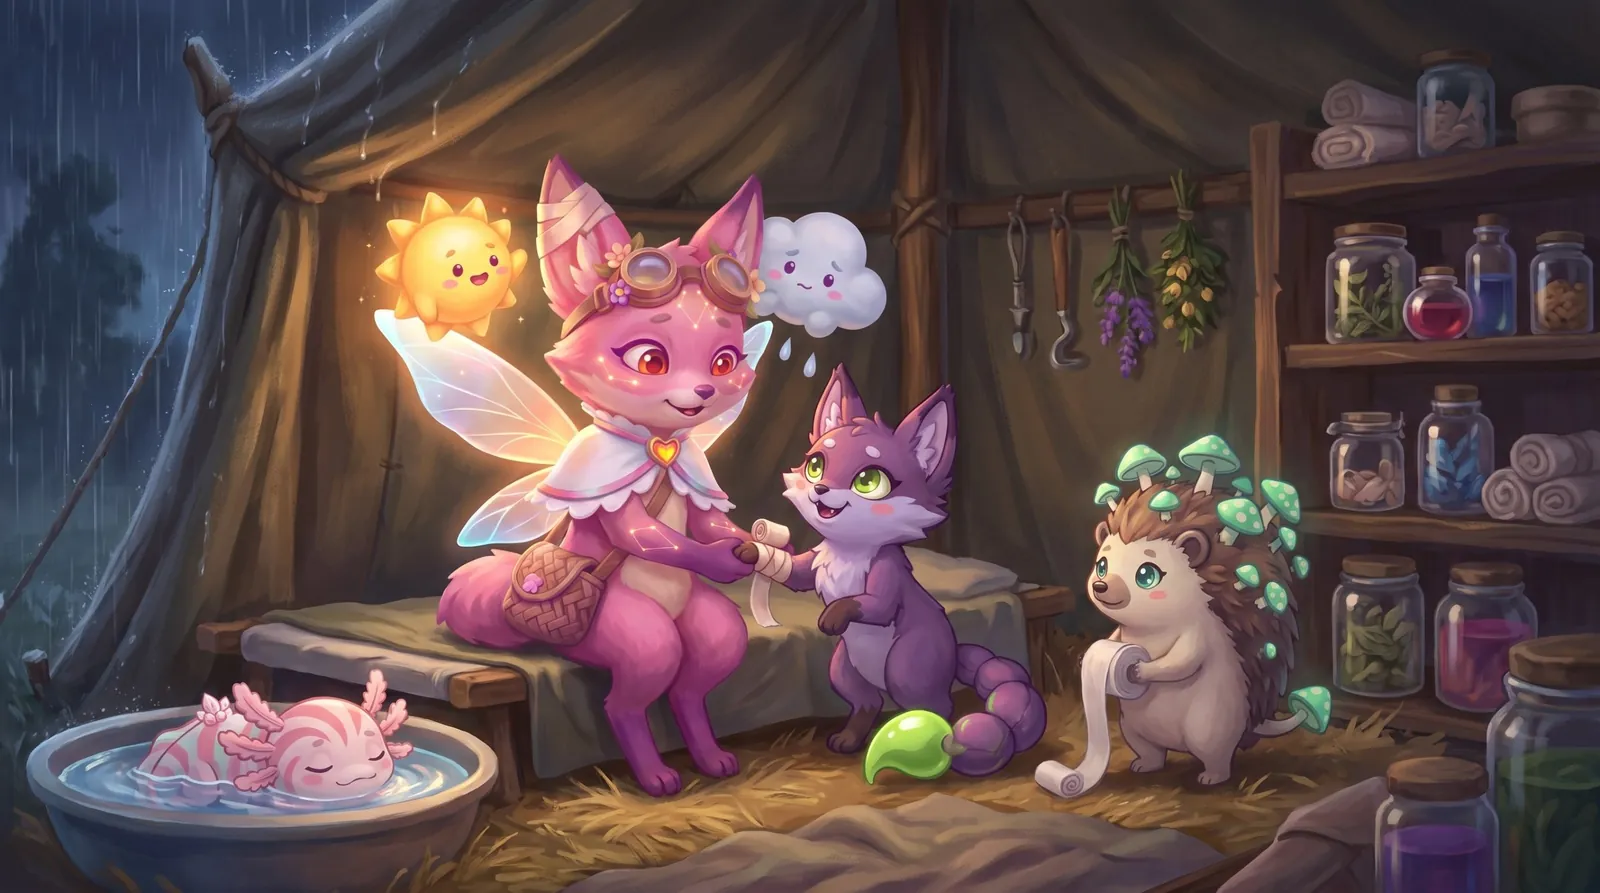
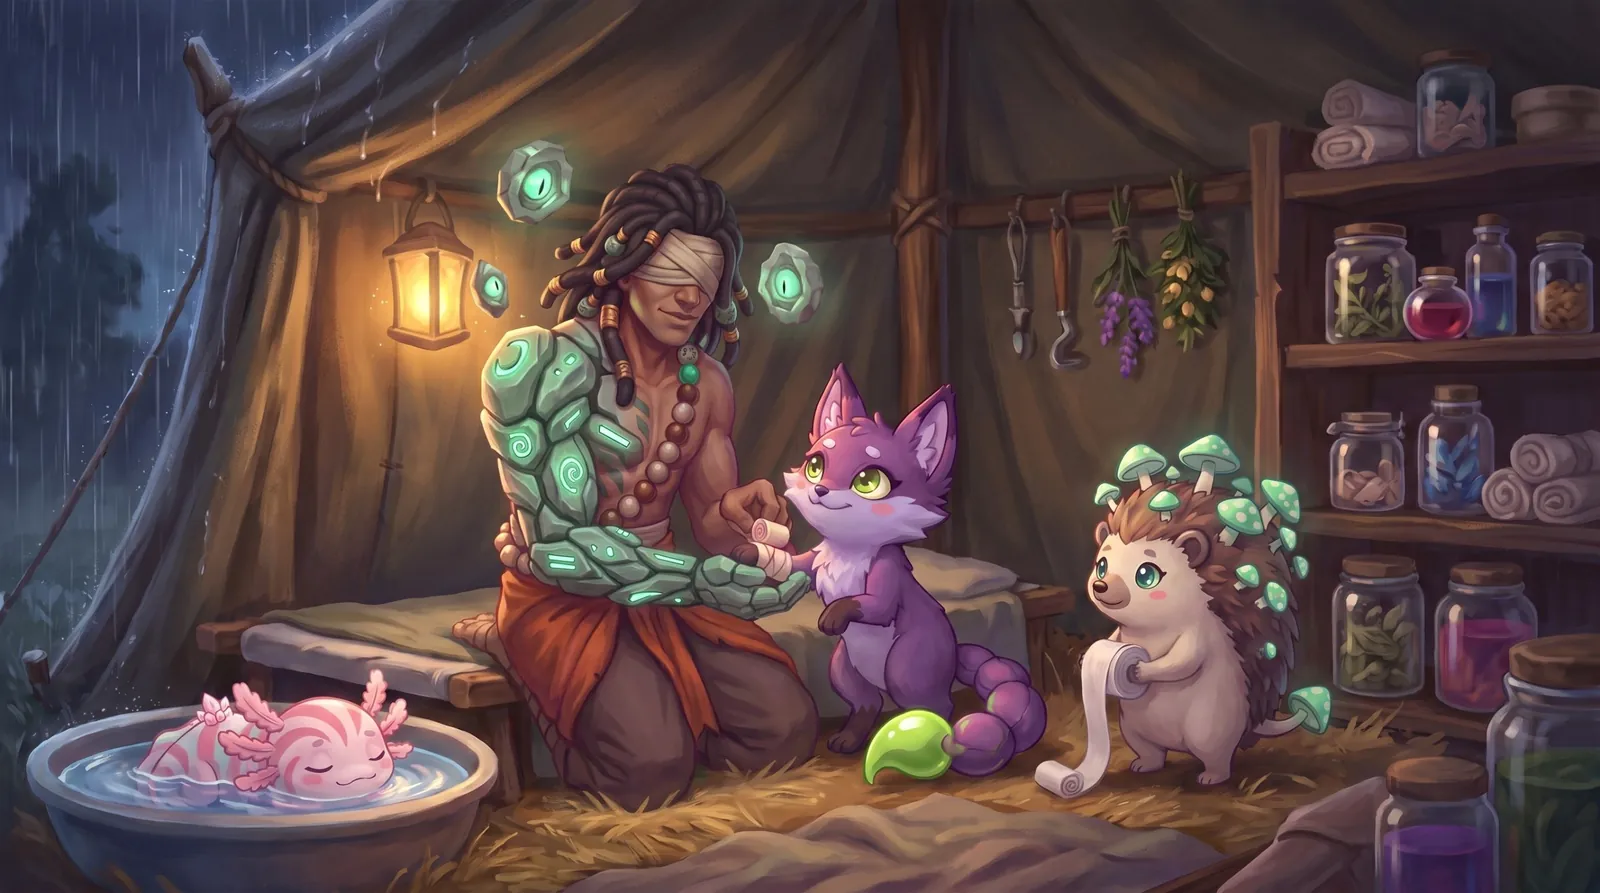
Raise your Boki: Tenzo in the tent
Claude-Session: https://claude.ai/code/session_015vSSPmpJoF22Rm1LS1od6V

diff --git a/index.html b/index.html
@@ -174,7 +174,7 @@
 <section id="boki" class="boki">
   <div class="wrap">
     <div class="bk-key above">
-      <img data-r src="assets/img/key/tent-1600.webp" srcset="assets/img/key/tent-960.webp 960w, assets/img/key/tent-1600.webp 1600w, assets/img/key/tent-2400.webp 2400w" sizes="(max-width: 1280px) 100vw, 1240px" width="2576" height="1438" alt="In a tent out of the rain, Meeko bandages a young Boki's paw while two more keep her company" loading="lazy" decoding="async">
+      <img data-r src="assets/img/key/tent-1600.webp?v=2" srcset="assets/img/key/tent-960.webp?v=2 960w, assets/img/key/tent-1600.webp?v=2 1600w, assets/img/key/tent-2400.webp?v=2 2400w" sizes="(max-width: 1280px) 100vw, 1240px" width="2576" height="1438" alt="In a tent out of the rain, Tenzo bandages a young Boki's paw while two more keep him company" loading="lazy" decoding="async">
       <header class="head" data-r="stagger">
         <h2 class="hb">Raise your Boki.</h2>
         <div class="sub">Each Boki is 100% unique, with its own traits, mutations and personality.</div>
